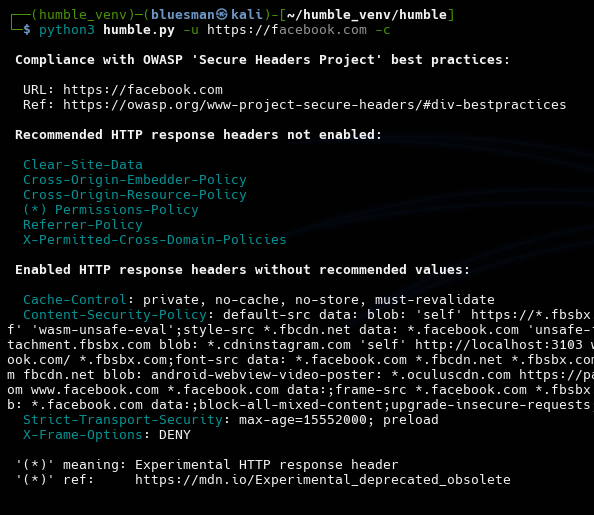
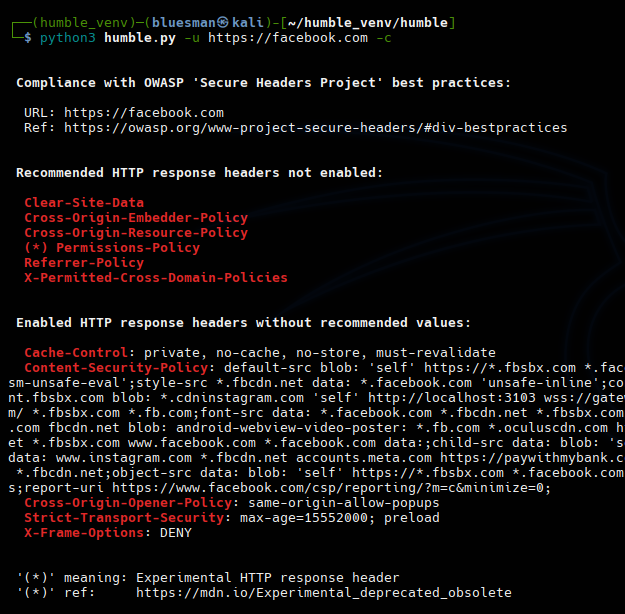
Minor: Code optimizations (OWASP compliance checks mainly)

Changed region(s): [[0.0, 0.2485, 1.0, 0.9942], [0.0, 0.0, 0.9394, 0.2175]]

diff --git a/humble.py b/humble.py
@@ -102,7 +102,8 @@ HUMBLE_FILES = ('analysis_h.txt', 'check_path_permissions', 'fingerprint.txt',
                 'analysis_grades.txt', 'analysis_grades_es.txt', 'license.txt',
                 'license_es.txt', 'testssl_windows.txt',
                 'testssl_windows_es.txt', 'security_guides.txt',
-                'security_guides_es.txt', 'security.txt')
+                'security_guides_es.txt', 'security.txt',
+                'owasp_best_practices.txt')
 JSON_SECTION = ('0section', '0headers', '5compat', '6result')
 L10N_IDXS = {'grades': (9, 10), 'license': (11, 12), 'testssl': (13, 14),
              'security_guides': (15, 16)}
@@ -135,11 +136,11 @@ SECTION_V = ('[no_enabled]', '[no_missing]', '[no_fingerprint]',
              '[most_missing]', '[least_missing]', '[most_fingerprints]',
              '[least_fingerprints]', '[most_insecure]', '[least_insecure]',
              '[most_empty]', '[least_empty]')
-SLICE_INT = (30, 43, 25, 24, -4, -5, 46, 31)
+SLICE_INT = (30, 43, 25, 24, -4, -5, 46, 31, 6)
 STYLE = (Style.BRIGHT, f"{Style.BRIGHT}{Fore.RED}", Fore.CYAN, Style.NORMAL,
          Style.RESET_ALL, Fore.RESET, '(humble_pdf_style)',
          f"(humble_sec_style){Fore.GREEN}", '(humble_sec_style)',
-         f"{Style.RESET_ALL}{Fore.RESET}")
+         f"{Style.RESET_ALL}{Fore.RESET}", Fore.GREEN)
 TESTSSL_FILE = ("testssl", "testssl.sh")
 # Check https://testssl.sh/doc/testssl.1.html to choose your preferred options
 TESTSSL_OPTIONS = ['-f', '-g', '-p', '-U', '-s', '--hints']
@@ -152,7 +153,7 @@ URL_STRING = ('rfc-st', ' URL  : ', 'caniuse')
 XML_STRING = ('Ref: ', 'Value: ', 'Valor: ')
 
 current_time = datetime.now().strftime("%Y/%m/%d - %H:%M:%S")
-local_version = datetime.strptime('2025-04-05', '%Y-%m-%d').date()
+local_version = datetime.strptime('2025-04-12', '%Y-%m-%d').date()
 
 
 class SSLContextAdapter(requests.adapters.HTTPAdapter):
@@ -392,8 +393,6 @@ def print_analysis_results(*diff, t_cnt):
               end='')
 
 
-# Use '-grd' parameter to show the checks to grade an analysis, along with
-# advice for improvement.
 def grade_analysis(en_cnt, m_cnt, f_cnt, i_cnt, e_cnt):
     if en_cnt == 0:
         return '[e_grade]'
@@ -896,8 +895,7 @@ def permissions_analyze_content(perm_header, i_cnt):
         permissions_print_deprecated(perm_header)
     if 'none' in perm_header:
         print_details('[ifpoli_h]', '[ifpoli]', 'd', i_cnt)
-    perm_broad_dirs = permissions_check_broad(perm_header)
-    if perm_broad_dirs:
+    if perm_broad_dirs := permissions_check_broad(perm_header):
         permissions_print_broad(perm_broad_dirs, i_cnt)
 
 
@@ -912,7 +910,7 @@ def permissions_print_deprecated(perm_header):
 
 
 def permissions_check_broad(perm_header):
-    perm_dirs = sum(bool(perm_dir in perm_header) for perm_dir in t_per_ft)
+    perm_dirs = sum(perm_dir in perm_header for perm_dir in t_per_ft)
     try:
         if perm_dirs >= 2:
             return [dir.split('=')[0].strip() for dir in perm_header.split(',')
@@ -1607,13 +1605,12 @@ def format_html_fingerprint(args, ln, sub_d, l_fng):
     if not ln:
         return ln
     for i in l_fng:
-        if not args.brief:
-            if i in ln and ': ' not in ln and 'class="ko"' not in ln:
-                return f"{sub_d['span_ko']}{ln}{sub_d['span_f']}"
-        else:
+        if args.brief:
             if i.casefold() in ln.casefold() and ':' not in ln and \
                  '    class="ko"' not in ln:
                 return f"{sub_d['span_ko']}{ln}{sub_d['span_f']}"
+        elif i in ln and ': ' not in ln and 'class="ko"' not in ln:
+            return f"{sub_d['span_ko']}{ln}{sub_d['span_f']}"
     return ln
 
 
@@ -1696,72 +1693,66 @@ def check_ru_scope():
         sys.exit()
 
 
-def extract_compliance_headers(tmp_filename):
-    file_path = path.abspath(tmp_filename)
-    start_sec, end_sec = '[1.', '[2.'
-    with open(file_path, 'r', encoding='utf8') as source_file:
-        lines = [line.strip() for line in source_file if line.strip()]
-    start_idx = next(i for i, line in enumerate(lines) if start_sec in line)
-    end_idx = next(i for i, line in enumerate(lines) if end_sec in line)
-    section_lines = lines[start_idx + 1:end_idx]
-    enabled_headers = {}
-    for line in section_lines:
-        if ': ' in line:
-            key, value = line.split(': ', 1)
-            enabled_headers[key.lower()] = value
+def check_owasp_compliance(tmp_filename):
     remove(tmp_filename)
-    extract_compliance_values(enabled_headers)
-
-
-def extract_compliance_values(enabled_headers):
-    header_keys = ['cache-control', 'clear-site-data',
-                   'content-security-policy', 'cross-origin-embedder-policy',
-                   'cross-origin-opener-policy',
-                   'cross-origin-resource-policy', '(*) permissions-policy',
-                   'referrer-policy', 'strict-transport-security',
-                   'x-content-type-options', 'x-frame-options',
-                   'x-permitted-cross-domain-policies',]
-    header_val = [enabled_headers.get(key, '') for key in header_keys]
-    compliance_val = [t_ocache, t_oclear, t_ocsp, t_ocoep, t_ocoop, t_ocorp,
-                      t_operm, t_oref, t_osts, t_oxcto, t_oxfo, t_oxpcd,]
-    check_owasp_compliance(header_keys, header_val, compliance_val)
-
-
-def check_owasp_compliance(header_keys, header_val, compliance_val):
-    non_cnt = 0
-    non_rules, non_rulesc = [], []
-    for key, value, rules in zip(header_keys, header_val, compliance_val):
-        if not value or any(elem not in value for elem in rules):
-            non_cnt += 1
-            header_v = value or get_detail('[comp_header]')
-            non_rulesc.append(key.title().replace("(*) ", ""))
-            non_rules.append(f"{STYLE[1]}{key.title()}{STYLE[9]}: {header_v}")
-    print_owasp_compliance(non_cnt, non_rules, non_rulesc)
-
-
-def print_owasp_compliance(non_cnt, non_rules, non_rulesc):
-    if non_cnt > 0:
-        print("")
-        print(f"{STYLE[0]}{get_detail('[comp_analysis]')}")
-        print(f'  URL: {URL}')
-        print(f" {get_detail('[comp_ko_owasp]')}")
-        header_v = get_detail('[comp_header]')
-        miss_h = [rule for rule in non_rules if header_v in rule]
-        miss_val = [rule for rule in non_rules if header_v not in rule]
-        print_details_owasp(miss_h, miss_val)
-    else:
-        print_detail('[comp_ok_owasp]', num_lines=2)
-
-
-def print_details_owasp(miss_h, miss_val):
-    print(f"\n{STYLE[0]}{get_detail('[comp_rec]')}{STYLE[5]}")
-    print(f"{"\n".join(f'  {rule.split(':')[0].strip()}' for rule in
-                       miss_h)}\n" if miss_h else f" \
-{get_detail('[no_warnings]')}")
-    print(f"\n{STYLE[0]}{get_detail('[comp_val]')}{STYLE[5]}")
-    print(f"{"\n".join(f'  {rule}' for rule in miss_val)}\n\n" if miss_val
-          else f" {get_detail('[no_warnings]')}\n")
+    header_list = []
+    header_dict = {}
+    with open(path.join(OS_PATH, HUMBLE_DIRS[0], HUMBLE_FILES[18]), 'r',
+              encoding='utf8') as owasp_file:
+        for line in islice(owasp_file, SLICE_INT[8], None):
+            line = line.strip()
+            header_name, header_val = map(str, line.split(': ', 1))
+            header_list.append(header_name.lower())
+            header_dict[header_name] = header_val
+    print_owasp_missing(header_list)
+    print_owasp_wrong(header_dict)
+    print(linesep.join(['']*2))
     print_detail('[comp_experimental]', 2)
+
+
+def print_owasp_missing_old(header_list):
+    print(linesep.join(['']*2))
+    print(f"{STYLE[0]}{get_detail('[comp_analysis]')}")
+    print(f'  URL: {URL}')
+    print(f" {get_detail('[comp_ko_owasp]')}")
+    print(f"\n{STYLE[0]}{get_detail('[comp_rec]')}{STYLE[5]}")
+    if missing_owasp := [header for header in header_list if header not in
+                         headers_l]:
+        for header in missing_owasp:
+            prefix = "(*) " if header.title() == "Permissions-Policy" else ""
+            print(f"{STYLE[1]}  {prefix}{header.title()}{STYLE[5]}")
+
+
+def print_owasp_missing(header_list):
+    print(linesep.join(['']*2))
+    print(f"{STYLE[0]}{get_detail('[comp_analysis]')}")
+    print(f'  URL: {URL}')
+    print(f" {get_detail('[comp_ko_owasp]')}")
+    print(f"\n{STYLE[0]}{get_detail('[comp_rec]')}{STYLE[5]}")
+    if missing_owasp := [header for header in header_list if header not in
+                         headers_l]:
+        for header in missing_owasp:
+            prefix = "(*) " if header.title() == "Permissions-Policy" else ""
+            print(f"{STYLE[1]}  {prefix}{header.title()}{STYLE[5]}")
+    else:
+        print(f"{STYLE[10]}  {get_detail('[no_warnings]')}{STYLE[5]}", end="")
+
+
+def print_owasp_wrong(header_dict):
+    wrong_owasp = [
+        (header, header_val)
+        for header, header_val in headers_l.items()
+        if (owasp_value := header_dict.get(header.title())) and header_val !=
+        owasp_value]
+    if wrong_owasp:
+        print(f"\n\n{STYLE[0]}{get_detail('[comp_val]')}{STYLE[5]}")
+        for header, value in sorted(wrong_owasp):
+            header_title = header.title()
+            prefix = f"{'(*) ' if header_title == 'Permissions-Policy' else
+                        ''}"
+            print(f"{STYLE[1]}  {prefix}{header_title}{STYLE[4]}: {value}")
+    else:
+        print(f"{STYLE[10]}  {get_detail('[no_warnings]')}{STYLE[5]}", end="")
 
 
 def analyze_input_file(input_file):
@@ -2398,32 +2389,6 @@ t_robots = ('all', 'archive', 'follow', 'index', 'indexifembedded',
             'noindex', 'none', 'nopagereadaloud', 'nositelinkssearchbox',
             'nosnippet', 'notranslate', 'noydir', 'unavailable_after')
 
-# OWASP 'Secure Headers Project' Best Practices
-# Ref: https://owasp.org/www-project-secure-headers/#div-bestpractices
-t_ocache = ('no-store', 'max-age=0')
-t_oclear = ('"cache"', '"cookies"', '"storage"')
-t_ocsp = ("default-src 'self';", "form-action 'self';", "object-src 'none';",
-          "frame-ancestors 'none';", "upgrade-insecure-requests;",
-          "block-all-mixed-content")
-t_ocoep = ('require-corp')
-t_ocoop = ('same-origin')
-t_ocorp = ('same-origin')
-t_operm = ('accelerometer=()', 'autoplay=()', 'camera=()',
-           'cross-origin-isolated=()', 'display-capture=()',
-           'encrypted-media=()', 'fullscreen=()', 'geolocation=()',
-           'gyroscope=()', 'keyboard-map=()', 'magnetometer=()',
-           'microphone=()', 'midi=()', 'payment=()', 'picture-in-picture=()',
-           'publickey-credentials-get=()', 'screen-wake-lock=()',
-           'sync-xhr=(self)', 'usb=()', 'web-share=()',
-           'xr-spatial-tracking=()', 'clipboard-read=()',
-           'clipboard-write=()', 'gamepad=()', 'hid=()', 'idle-detection=()',
-           'interest-cohort=()', 'serial=()', 'unload=()')
-t_oref = ('no-referrer')
-t_osts = ("max-age=31536000;", "includeSubDomains")
-t_oxcto = ('nosniff')
-t_oxfo = ('deny')
-t_oxpcd = ('none')
-
 unsafe_scheme = True if URL.startswith(HTTP_SCHEMES[0]) else False
 
 if 'accept-ch' in headers_l and '1' not in skip_list:
@@ -2965,7 +2930,7 @@ if args.output:
 if args.output == 'txt':
     print_export_path(tmp_filename, reliable)
     if '-c' in sys.argv:
-        enabled_headers = extract_compliance_headers(tmp_filename)
+        check_owasp_compliance(tmp_filename)
 elif args.output == 'csv':
     generate_csv(tmp_filename, final_filename)
 elif args.output == 'json':

diff --git a/README.md b/README.md
@@ -6,7 +6,7 @@
 <a target="_blank" href="https://devguide.python.org/versions/" title="Minimum Python version required to run this tool"><img src="https://img.shields.io/badge/Python-%3E%3D3.9-blue?labelColor=343b41"></a>
 <a target="_blank" href="LICENSE" title="License of this tool"><img src="https://img.shields.io/badge/License-MIT-blue.svg?labelColor=343b41"></a>
 <a target="_blank" href="https://github.com/rfc-st/humble/releases" title="Latest release of this tool"><img src="https://img.shields.io/github/v/release/rfc-st/humble?display_name=release&label=Latest%20Release&labelColor=343b41"></a>
-<a target="_blank" href="https://github.com/rfc-st/humble/commits/master" title="Latest commit of this tool"><img src="https://img.shields.io/badge/Latest_Commit-2025--04--05-blue.svg?labelColor=343b41"></a>
+<a target="_blank" href="https://github.com/rfc-st/humble/commits/master" title="Latest commit of this tool"><img src="https://img.shields.io/badge/Latest_Commit-2025--04--12-blue.svg?labelColor=343b41"></a>
 <a target="_blank" href="https://pkg.kali.org/pkg/humble" title="Official tool in Kali Linux"><img src="https://img.shields.io/badge/Kali%20Linux-Tool-blue?labelColor=343b41"></a>
 <br />
 <a target="_blank" href="#" title="Featured on:"><img src="https://img.shields.io/badge/Featured%20on:-343b41"></a>
@@ -81,7 +81,7 @@
 :heavy_check_mark: Code reviewed via <a href="https://pypi.org/project/bandit/" target="_blank">Bandit<a>, <a href="https://marketplace.visualstudio.com/items?itemName=ms-python.flake8" target="_blank">Flake8<a>, <a href="https://github.com/joerick/pyinstrument" target="_blank">pyinstrument<a> and <a href="https://marketplace.visualstudio.com/items?itemName=SonarSource.sonarlint-vscode" target="_blank">SonarQube for IDE<a>.<br />
 :heavy_check_mark: Tested, one by one, on thousands of URLs.<br />
 :heavy_check_mark: Tested on Docker 26.1, Kali Linux 2021.1, macOS 14.2.1 and Windows 10 20H2.<br />
-:heavy_check_mark: <a href="https://github.com/rfc-st/humble/blob/master/additional/fingerprint.txt" target="_blank">Almost<a> all the code under one of the most permissive licenses: <a href="https://github.com/rfc-st/humble/blob/master/LICENSE" target="_blank">MIT<a>.<br />
+:heavy_check_mark: <a href="https://github.com/rfc-st/humble/blob/master/additional/fingerprint.txt" target="_blank">Almost<a> all the <a href="https://github.com/rfc-st/humble/blob/master/additional/owasp_best_practices.txt" target="_blank">code<a> under one of the most permissive licenses: <a href="https://github.com/rfc-st/humble/blob/master/LICENSE" target="_blank">MIT<a>.<br />
 :heavy_check_mark: Regularly <a href="https://github.com/rfc-st/humble/commits/master" target="_blank">updated</a>.<br />
 :heavy_check_mark: Minimal <a href="https://github.com/rfc-st/humble/blob/master/requirements.txt" target="_blank">dependencies</a> required.<br />
 :heavy_check_mark: Developed entirely in my spare time, <b>no strings attached</b>: feel free to try it out and integrate it into your projects!.<br />
